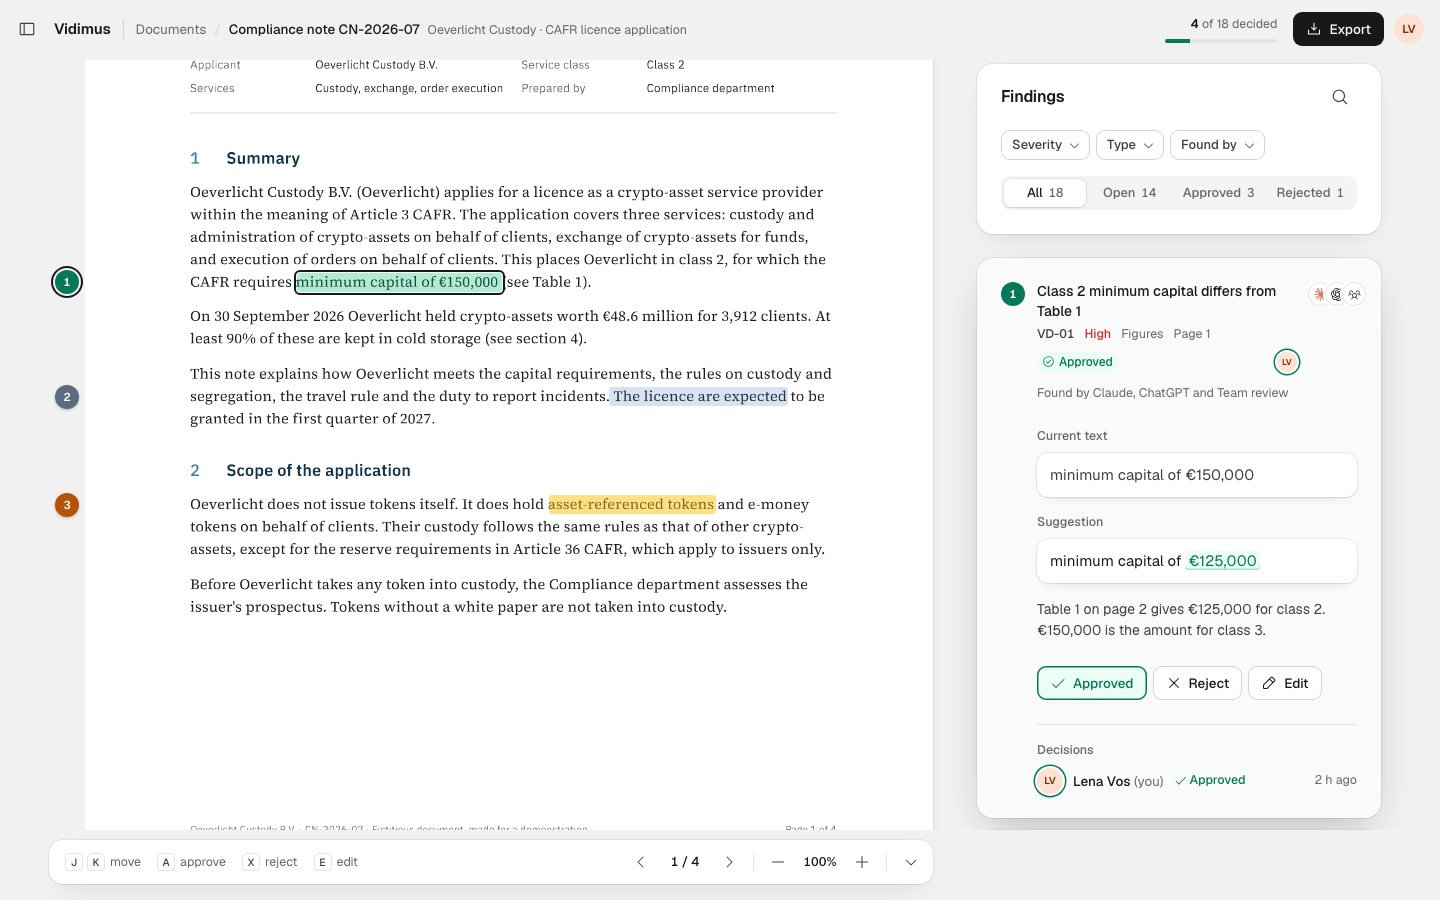
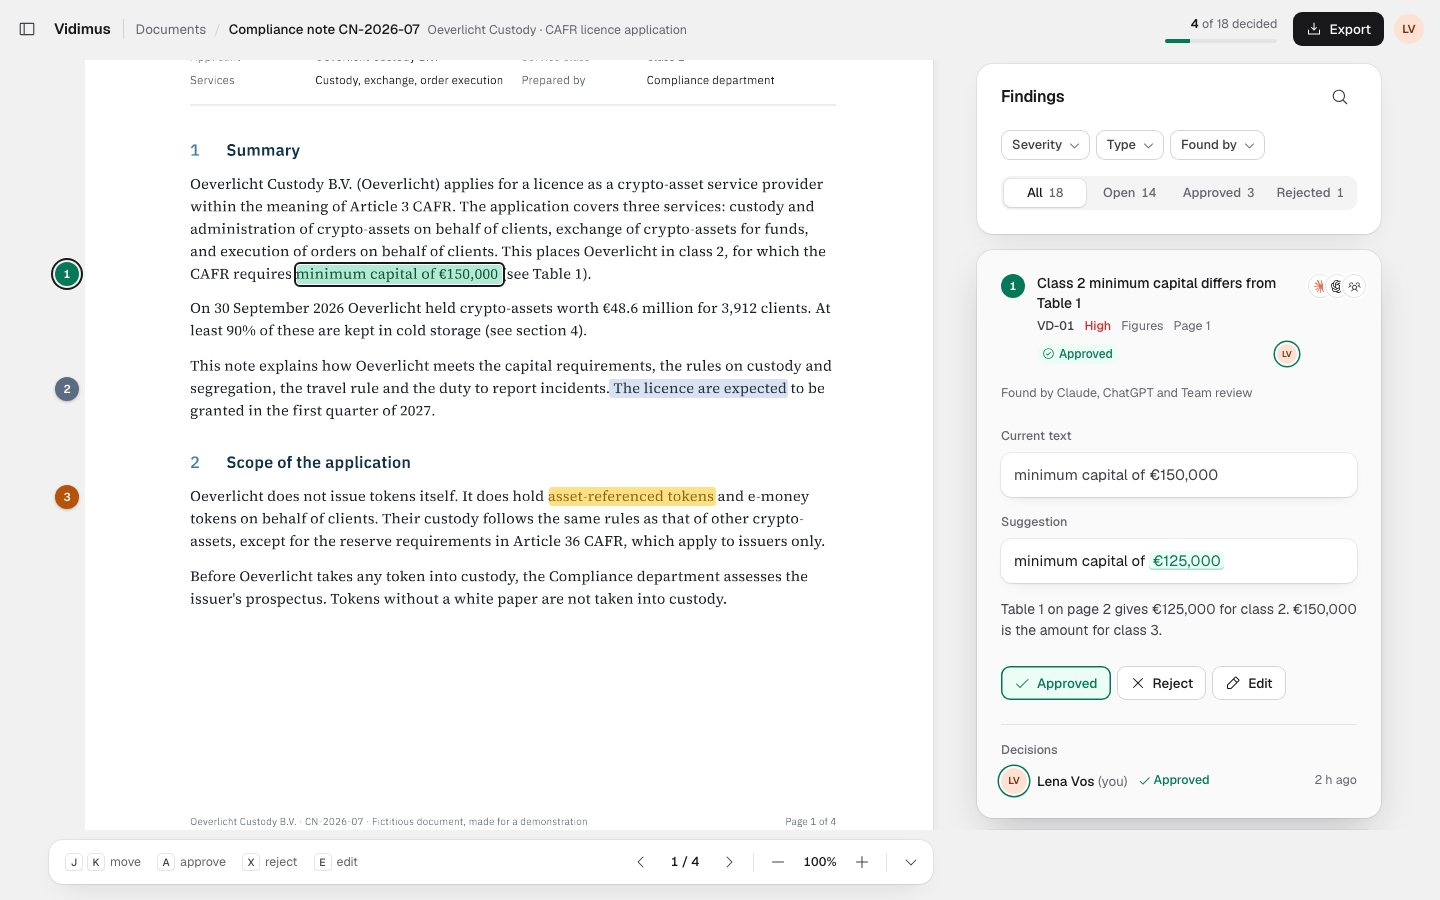
style(lab): balance the open card, same space left and right

diff --git a/lab/v1/index.html b/lab/v1/index.html
@@ -278,8 +278,8 @@ body.dock-off .dockshow:active{transform:translateX(-50%) scale(.94)}
 .cmt.sel{z-index:2;background:var(--surface-2);box-shadow:var(--pop)}
 /* the open card breathes: more room around and between its parts */
 .cmt.sel > .rowbtn{padding:var(--g6) var(--g4) var(--g2) var(--g6)}
-/* body indent = 24 edge + 24 marker + 12 gap, so it lines up under the title */
-.cmt .card{padding:0 var(--g6) var(--g6) 60px}
+/* the body spans the card with the same 24 px on both sides, so the card is balanced */
+.cmt .card{padding:var(--g2) var(--g6) var(--g6)}
 .cmt .cagents{margin:var(--g1) 0 var(--g6)}
 .cmt .cfield{margin-bottom:var(--g4)}
 .cmt .clabel{margin:0 0 var(--g2)}

diff --git a/lab/v1/template.html b/lab/v1/template.html
@@ -278,8 +278,8 @@ body.dock-off .dockshow:active{transform:translateX(-50%) scale(.94)}
 .cmt.sel{z-index:2;background:var(--surface-2);box-shadow:var(--pop)}
 /* the open card breathes: more room around and between its parts */
 .cmt.sel > .rowbtn{padding:var(--g6) var(--g4) var(--g2) var(--g6)}
-/* body indent = 24 edge + 24 marker + 12 gap, so it lines up under the title */
-.cmt .card{padding:0 var(--g6) var(--g6) 60px}
+/* the body spans the card with the same 24 px on both sides, so the card is balanced */
+.cmt .card{padding:var(--g2) var(--g6) var(--g6)}
 .cmt .cagents{margin:var(--g1) 0 var(--g6)}
 .cmt .cfield{margin-bottom:var(--g4)}
 .cmt .clabel{margin:0 0 var(--g2)}
